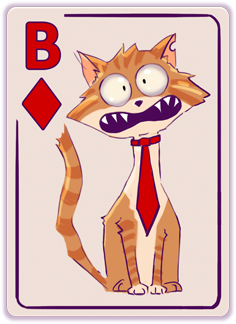
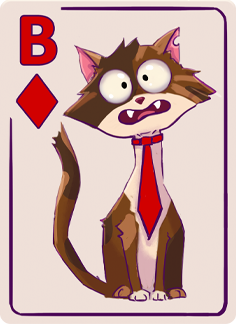
Update J/Q/K diamonds card art and add CSS drop shadows to all cards

diff --git a/public/style.css b/public/style.css
@@ -153,6 +153,7 @@ button:active {
   border-radius: 6px;
   overflow: hidden;
   margin-right: -12px;
+  box-shadow: 2px 3px 6px rgba(0,0,0,0.35);
 }
 
 .card-back:last-child {
@@ -347,6 +348,7 @@ button:active {
   position: relative;
   transition: transform 0.15s, box-shadow 0.15s;
   overflow: hidden;
+  box-shadow: 2px 3px 6px rgba(0,0,0,0.35);
 }
 
 .card img {
